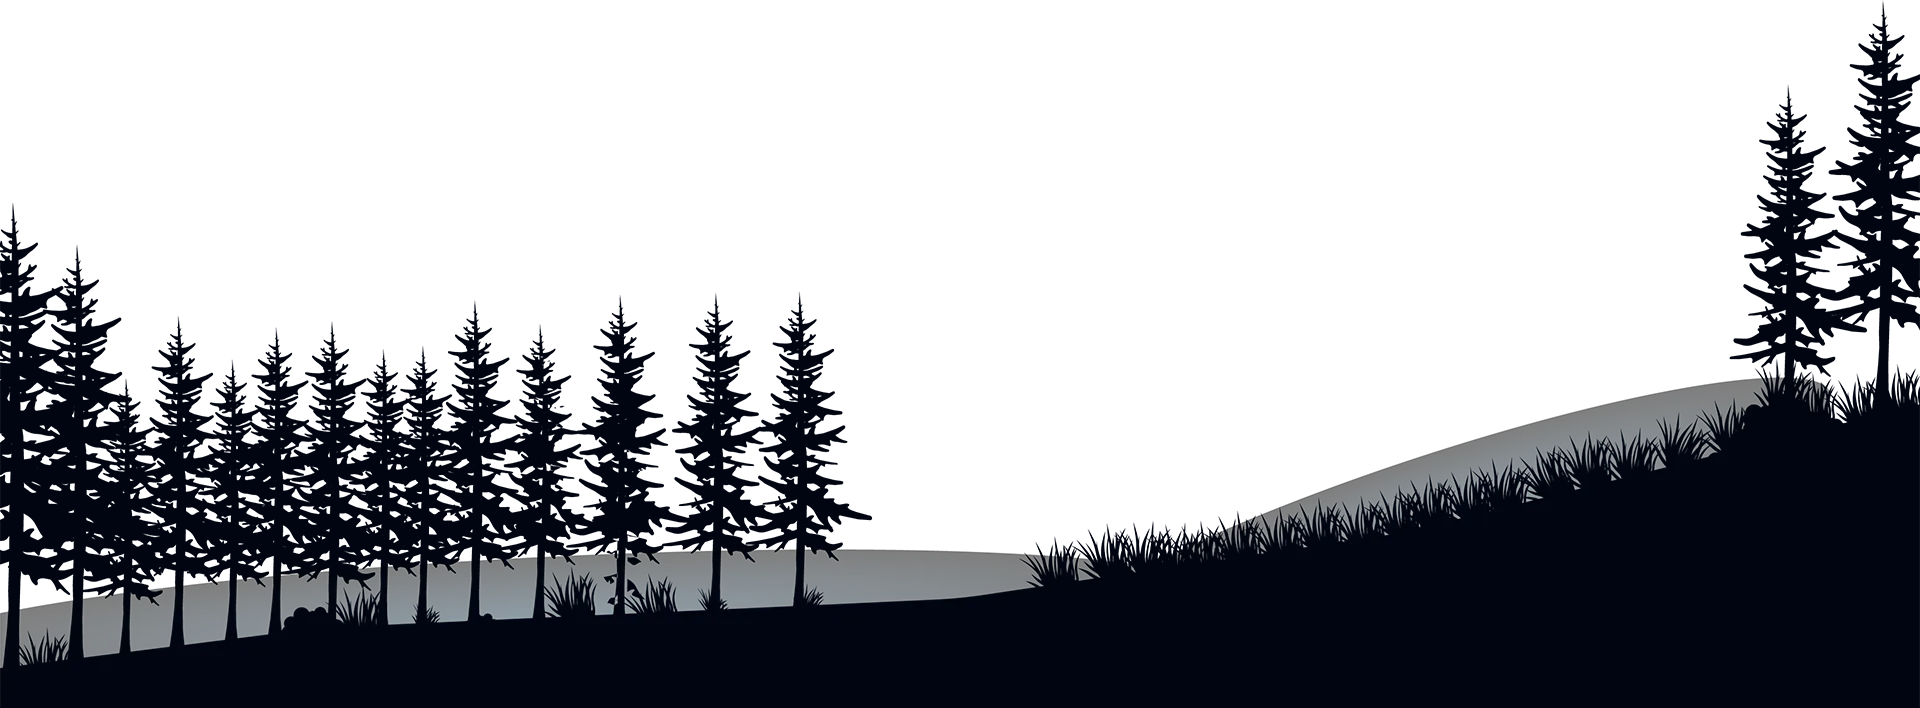
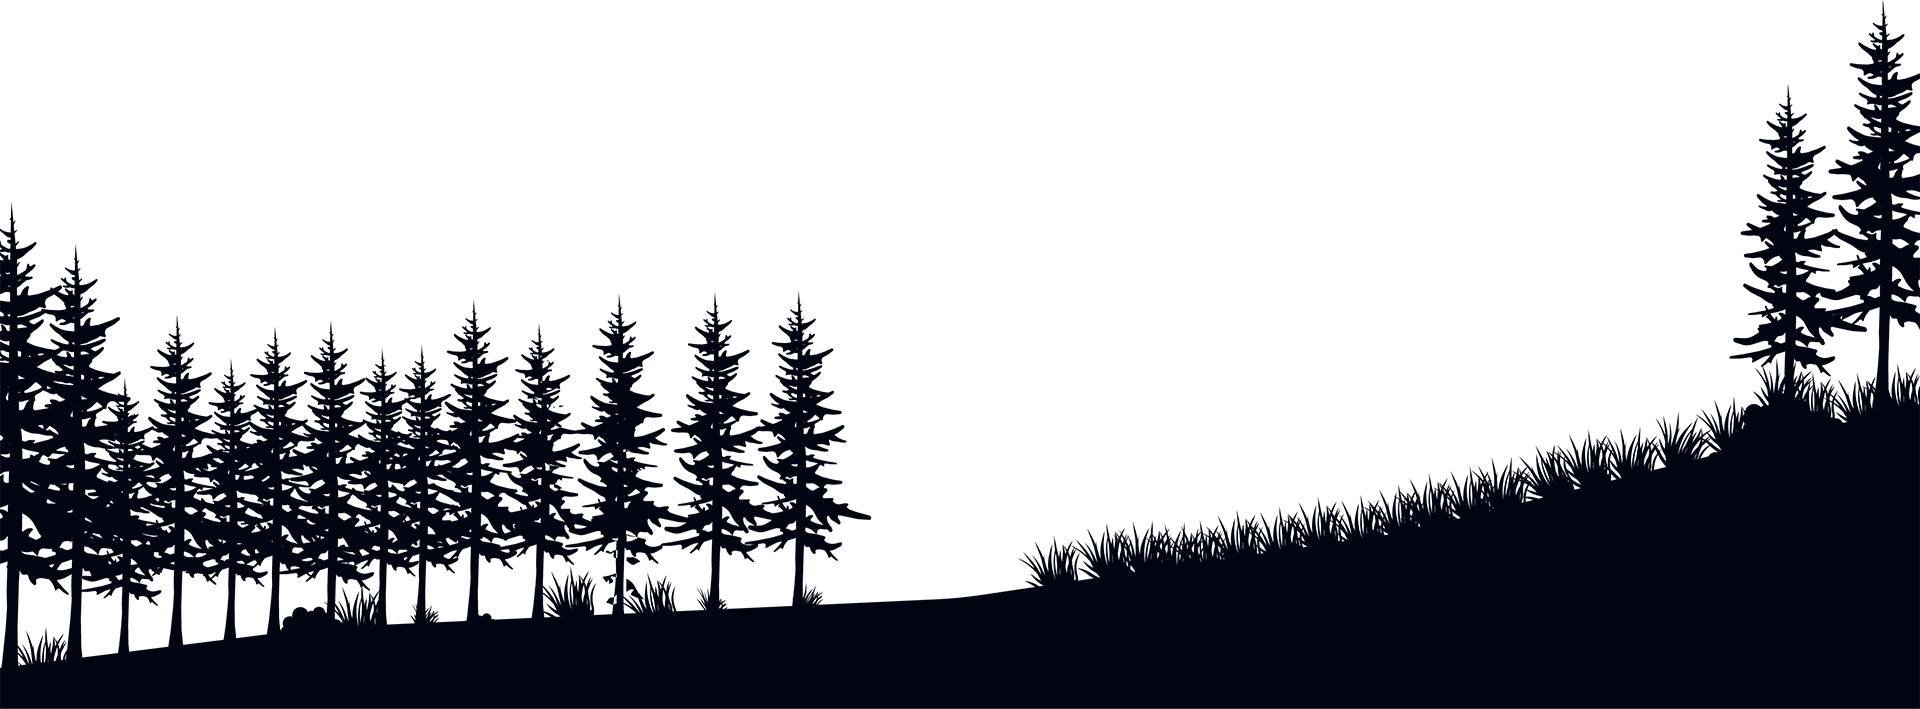
[UPDATE] Parallax composition #2

Changed region(s): [[0.0, 0.0311, 1.0, 0.9322], [0.0, 0.9944, 1.0, 1.0]]

diff --git a/app/components/sections/HeroSection.vue b/app/components/sections/HeroSection.vue
@@ -16,7 +16,7 @@
     </div>
 
     <div class="hero__layer" data-depth="0.2">
-      <img src="/parallax/moutains-1.webp" alt="" aria-hidden="true" class="hero__img hero__img--bottom">
+      <img src="/parallax/mountains-1.webp" alt="" aria-hidden="true" class="hero__img hero__img--bottom">
     </div>
 
     <div class="hero__layer" data-depth="0.3">
@@ -34,10 +34,16 @@
     <div class="hero__layer" data-depth="0.5">
       <img src="/parallax/mountains-3.webp" alt="" aria-hidden="true" class="hero__img hero__img--bottom">
     </div>
-
+    <!-- Brume seule (dégradés radiaux, mix-blend-mode) -->
+    <div class="hero__layer" data-depth="0.9">
+      <img src="/parallax/trees-3-brume.webp" alt="" aria-hidden="true" class="hero__img hero__img--bottom hero__img--exclusion">
+    </div>
+    <!-- Arbres seuls (silhouette propre, pas de blend) -->
     <div class="hero__layer" data-depth="0.9">
       <img src="/parallax/trees-3.webp" alt="" aria-hidden="true" class="hero__img hero__img--bottom">
     </div>
+
+
 
 <!--    &lt;!&ndash; Contenu texte (au dessus de tout) &ndash;&gt;-->
 <!--    <div class="hero__content">-->

diff --git a/app/assets/scss/components/_hero.scss b/app/assets/scss/components/_hero.scss
@@ -43,13 +43,17 @@
   }
   // Lune positionnée à droite
   &--moon {
-    top: 20%;
-    right: 5%;
+    top: 28%;
+    right: 8%;
     left: auto;
     width: 307px;
     height: auto;
     object-fit: initial;
     mix-blend-mode: screen;
+  }
+  &--exclusion{
+    mix-blend-mode: exclusion;
+    bottom: 1.5%;
   }
 }
 
